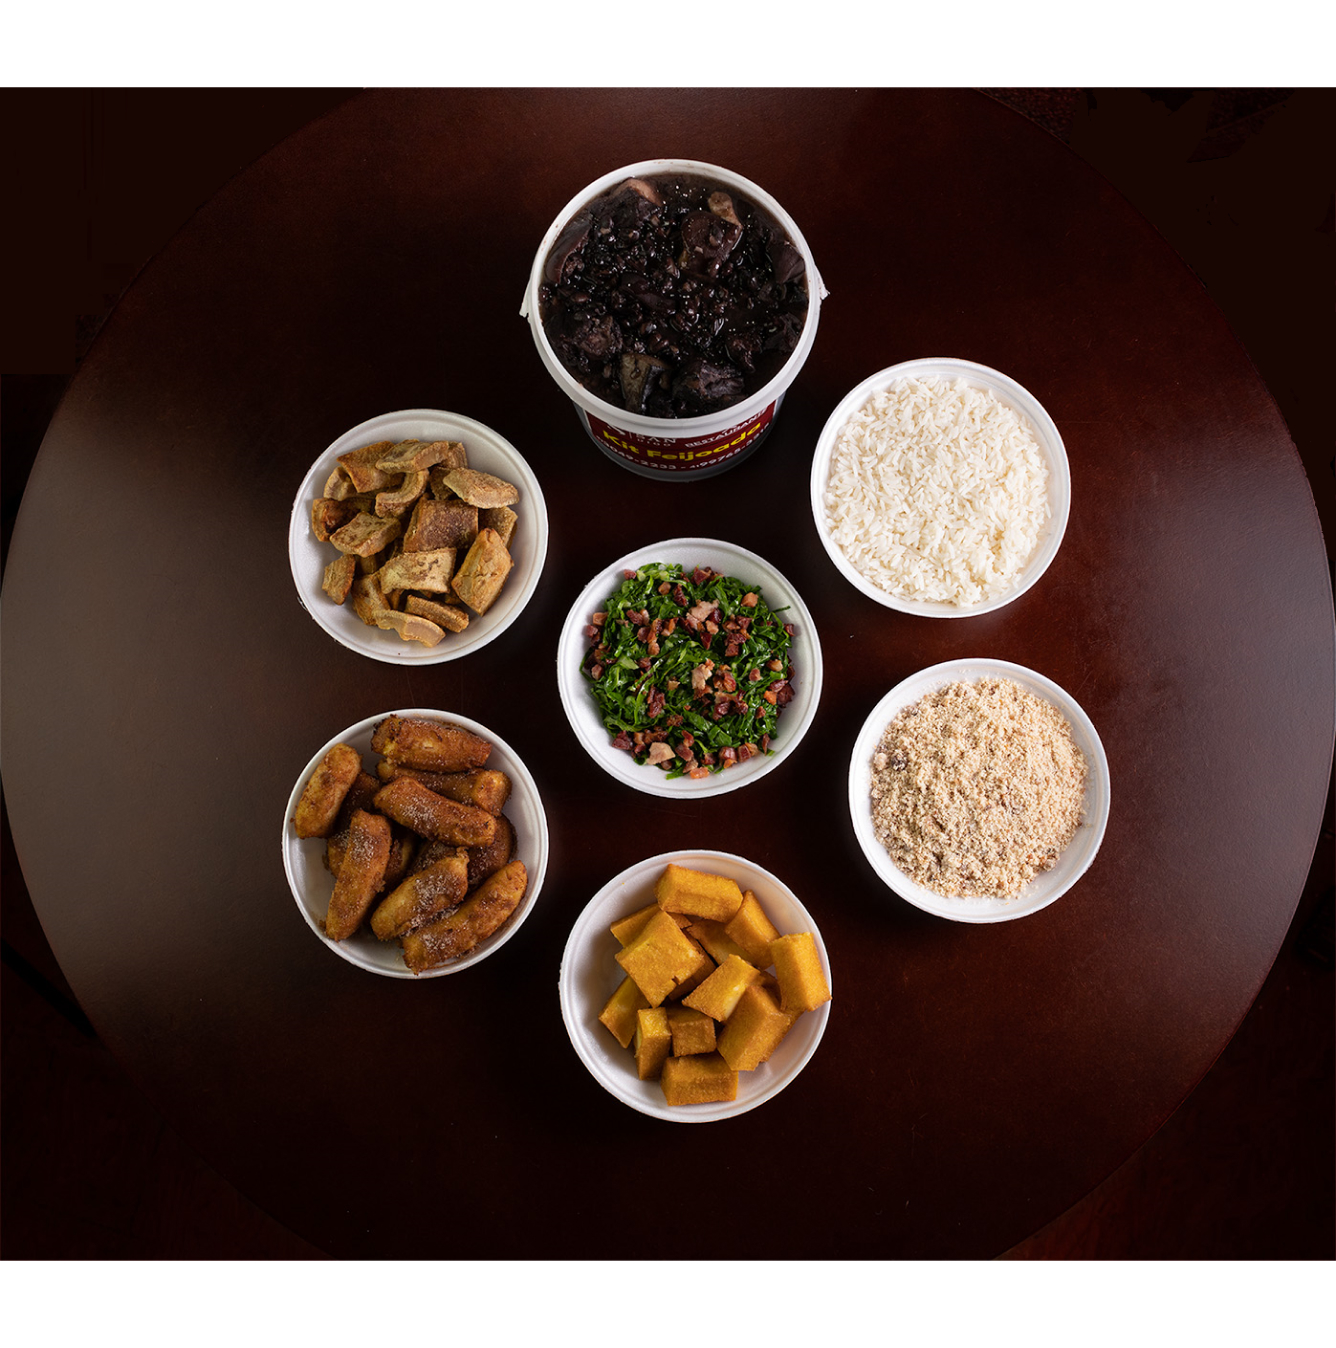
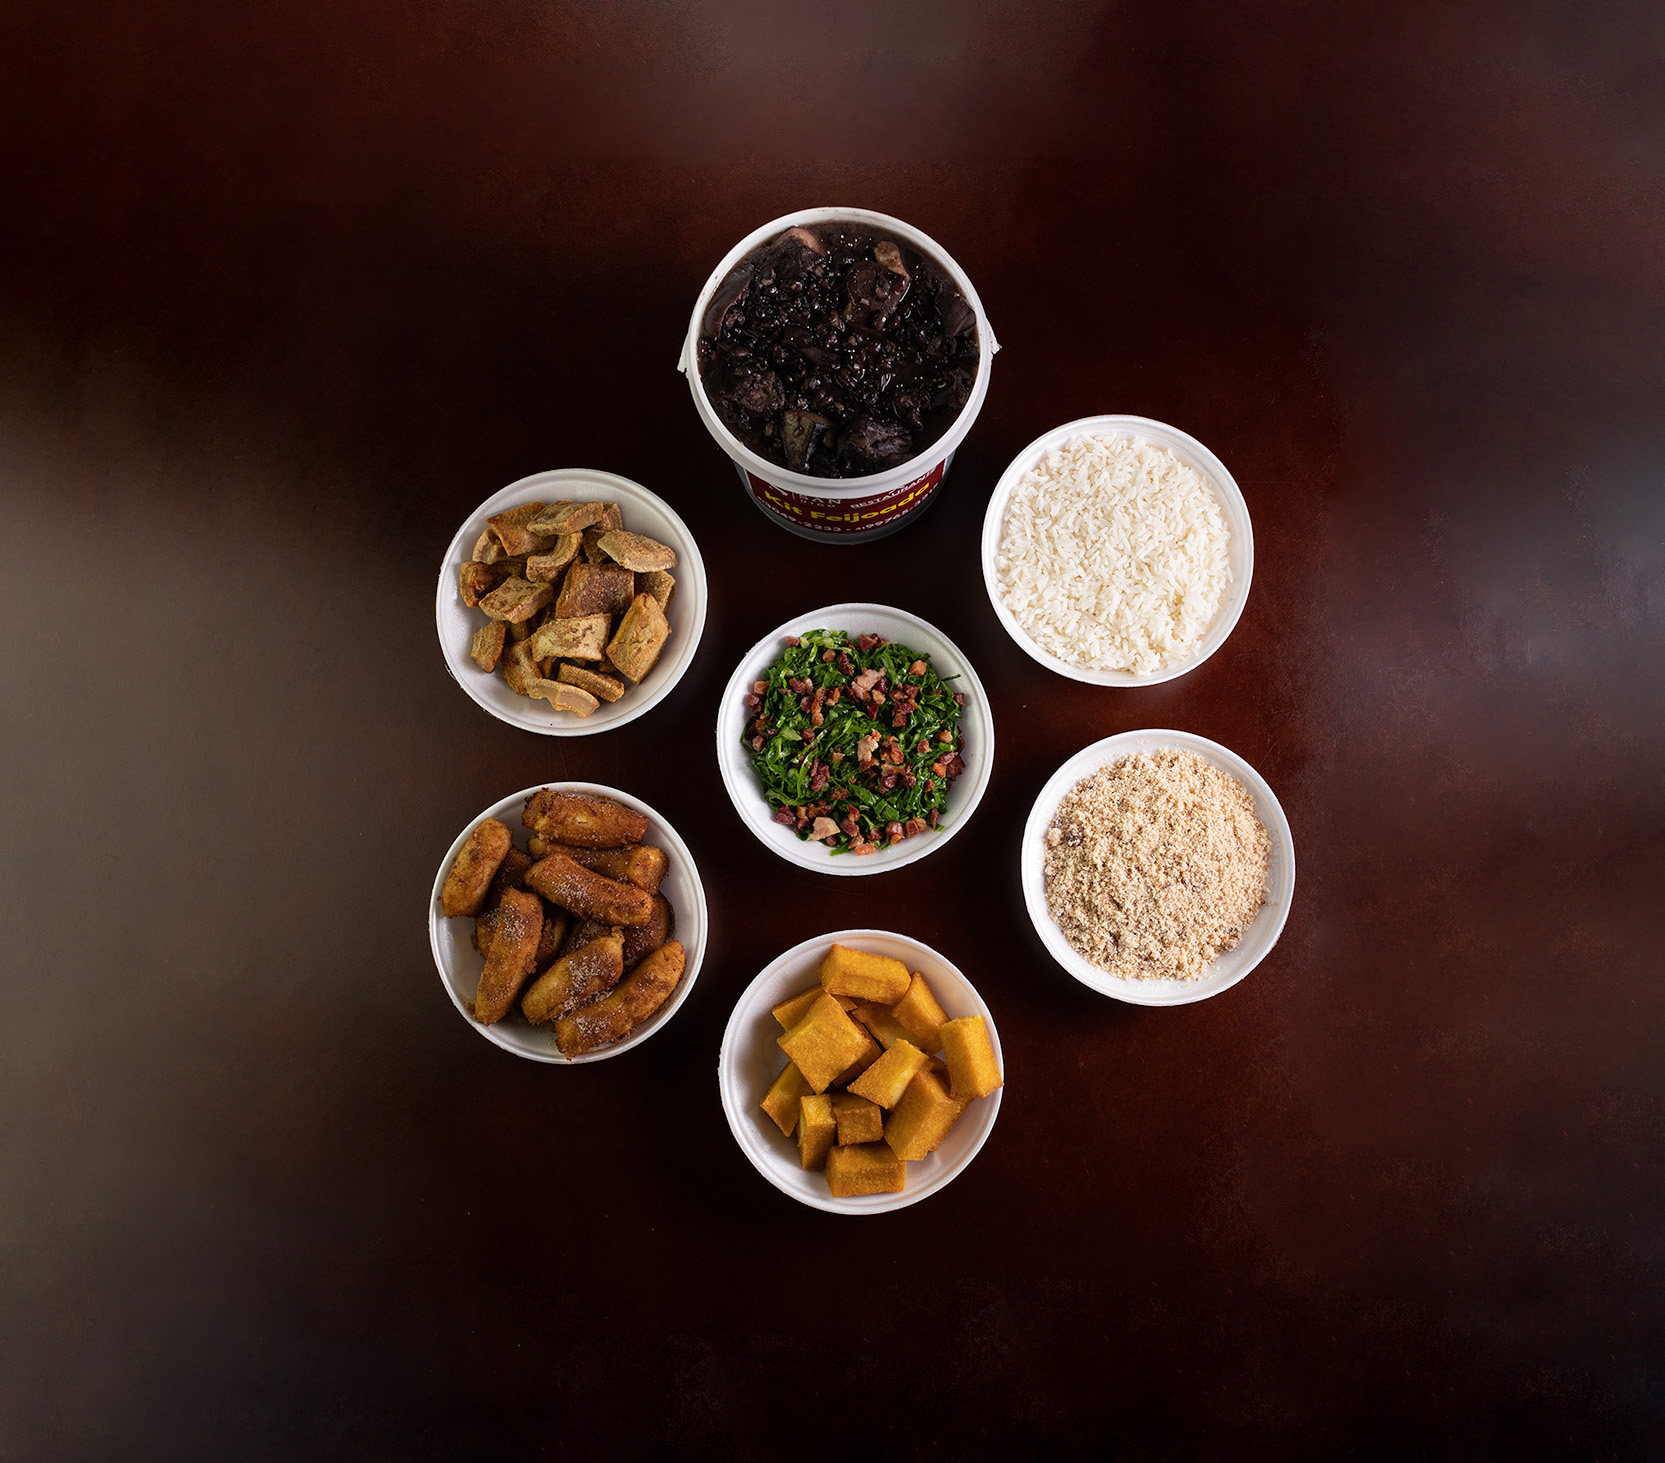
style(buffet-page): adds 2 new fixed imgs and fix responsive background-imgs

diff --git a/src/styles/root-style/reponsive-style/buffet/buffet-responsive.css b/src/styles/root-style/reponsive-style/buffet/buffet-responsive.css
@@ -146,8 +146,8 @@
     background-position: -200px -60px;
   }
   body .main-content-box .buffet .container .imgs-gallery .our-buffet .frame.two .image.kf, body .main-content-box .buffet .container .imgs-gallery .kit-feijoada .frame.two .image.kf {
-    background-size: 120%;
-    background-position: -30px -30px;
+    background-size: 140%;
+    background-position: -62px -35px;
   }
   body .main-content-box .buffet .container .imgs-gallery .our-buffet .frame.three .image.bf, body .main-content-box .buffet .container .imgs-gallery .kit-feijoada .frame.three .image.bf {
     background-size: 120%;
@@ -230,8 +230,8 @@
     background-position: -250px -75px;
   }
   body .main-content-box .buffet .container .imgs-gallery .our-buffet .frame.two .image.kf, body .main-content-box .buffet .container .imgs-gallery .kit-feijoada .frame.two .image.kf {
-    background-size: 140%;
-    background-position: -95px -85px;
+    background-size: 125%;
+    background-position: -60px 45%;
   }
   body .main-content-box .buffet .container .imgs-gallery .our-buffet .frame.three .image.bf, body .main-content-box .buffet .container .imgs-gallery .kit-feijoada .frame.three .image.bf {
     background-size: 110%;
@@ -299,8 +299,7 @@
     background-position: -180px -50px;
   }
   body .main-content-box .buffet .container .imgs-gallery .our-buffet .frame.two .image.kf, body .main-content-box .buffet .container .imgs-gallery .kit-feijoada .frame.two .image.kf {
-    background-size: 115%;
-    background-position: -30px -40px;
+    background-position: -45px -30px;
   }
   body .main-content-box .buffet .container .imgs-gallery .our-buffet .frame.three .image.bf, body .main-content-box .buffet .container .imgs-gallery .kit-feijoada .frame.three .image.bf {
     background-size: 110%;
@@ -365,8 +364,8 @@
     background-position: -160px -25px;
   }
   body .main-content-box .buffet .container .imgs-gallery .our-buffet .frame.two .image.kf, body .main-content-box .buffet .container .imgs-gallery .kit-feijoada .frame.two .image.kf {
-    background-size: 125%;
-    background-position: -40px -30px;
+    background-size: 140%;
+    background-position: -58px -25px;
   }
   body .main-content-box .buffet .container .imgs-gallery .our-buffet .frame.three .image.bf, body .main-content-box .buffet .container .imgs-gallery .kit-feijoada .frame.three .image.bf {
     background-position: center -30px;
@@ -422,8 +421,8 @@
     background-position: -170px -20px;
   }
   body .main-content-box .buffet .container .imgs-gallery .our-buffet .frame.two .image.kf, body .main-content-box .buffet .container .imgs-gallery .kit-feijoada .frame.two .image.kf {
-    background-size: 130%;
-    background-position: -42px -25px;
+    background-size: 150%;
+    background-position: -60px -30px;
   }
   body .main-content-box .buffet .container .imgs-gallery .our-buffet .frame.three .image.kf, body .main-content-box .buffet .container .imgs-gallery .kit-feijoada .frame.three .image.kf {
     background-position: -52px -15px;
@@ -473,8 +472,8 @@
     background-position: -150px -30px;
   }
   body .main-content-box .buffet .container .imgs-gallery .our-buffet .frame.two .image.kf, body .main-content-box .buffet .container .imgs-gallery .kit-feijoada .frame.two .image.kf {
-    background-size: 120%;
-    background-position: -25px -22px;
+    background-size: 135%;
+    background-position: -40px 45%;
   }
   body .main-content-box .buffet .container .imgs-gallery .our-buffet .frame.three .image.kf, body .main-content-box .buffet .container .imgs-gallery .kit-feijoada .frame.three .image.kf {
     background-position: -45px -25px;
@@ -532,7 +531,7 @@
   }
   body .main-content-box .buffet .container .imgs-gallery .our-buffet .frame.two .image.kf, body .main-content-box .buffet .container .imgs-gallery .kit-feijoada .frame.two .image.kf {
     background-size: 120%;
-    background-position: -10vw 40%;
+    background-position: 58% 45%;
   }
   body .main-content-box .buffet .container .imgs-gallery .our-buffet .frame.three .image.bf, body .main-content-box .buffet .container .imgs-gallery .kit-feijoada .frame.three .image.bf {
     background-size: 110%;

diff --git a/src/styles/root-style/reponsive-style/buffet/device-size/_mobile-g.scss b/src/styles/root-style/reponsive-style/buffet/device-size/_mobile-g.scss
@@ -41,8 +41,8 @@
                                 }
     
                                 .image.kf{
-                                    background-size: 125%;
-                                    background-position: -40px -30px;
+                                    background-size: 140%;
+                                    background-position: -58px -25px;
                                 }
                             }
             
@@ -142,8 +142,8 @@
                                 }
     
                                 .image.kf{
-                                    background-size: 130%;
-                                    background-position: -42px -25px;
+                                    background-size: 150%;
+                                    background-position: -60px -30px;
                                 }
                             }
 
@@ -238,8 +238,8 @@
                                 }
     
                                 .image.kf{
-                                    background-size: 120%;
-                                    background-position: -25px -22px;
+                                    background-size: 135%;
+                                    background-position: -40px 45%;
                                 }
                             }
 
@@ -337,7 +337,7 @@
     
                                 .image.kf{
                                     background-size: 120%;
-                                    background-position: -10vw 40%;
+                                    background-position: 58% 45%;
                                 }
                             }
 

diff --git a/src/styles/root-style/master-style/buffet/buffet-style.css b/src/styles/root-style/master-style/buffet/buffet-style.css
@@ -479,8 +479,8 @@ body .main-content-box .buffet .container .imgs-gallery .our-buffet .frame.two .
 }
 body .main-content-box .buffet .container .imgs-gallery .our-buffet .frame.two .image.kf, body .main-content-box .buffet .container .imgs-gallery .kit-feijoada .frame.two .image.kf {
   background-image: url("../../../../images/section-images/buffet/kitf-2.jpg");
-  background-size: 130%;
-  background-position: -55px -40px;
+  background-size: 150%;
+  background-position: -85px -45px;
 }
 body .main-content-box .buffet .container .imgs-gallery .our-buffet .frame.three, body .main-content-box .buffet .container .imgs-gallery .kit-feijoada .frame.three {
   grid-area: img-3;
@@ -491,8 +491,8 @@ body .main-content-box .buffet .container .imgs-gallery .our-buffet .frame.three
 }
 body .main-content-box .buffet .container .imgs-gallery .our-buffet .frame.three .image.kf, body .main-content-box .buffet .container .imgs-gallery .kit-feijoada .frame.three .image.kf {
   background-image: url("../../../../images/section-images/buffet/kitf-3.jpg");
-  background-size: 150%;
-  background-position: -72px center;
+  background-size: 145%;
+  background-position: -65px center;
 }
 body .main-content-box .buffet .container .imgs-gallery .our-buffet {
   grid-template-columns: minmax(auto, 267px) minmax(auto, 329px) minmax(auto, 442px);

diff --git a/src/styles/partial-style/buffet-page/_images-gallery.scss b/src/styles/partial-style/buffet-page/_images-gallery.scss
@@ -128,8 +128,8 @@ body{
 
                             .image.kf{
                                 background-image: url('../../../../images/section-images/buffet/kitf-2.jpg');
-                                background-size: 130%;
-                                background-position: -55px -40px;
+                                background-size: 150%;
+                                background-position: -85px -45px;
                             }
                         }
         
@@ -143,8 +143,8 @@ body{
 
                             .image.kf{
                                 background-image: url('../../../../images/section-images/buffet/kitf-3.jpg');
-                                background-size: 150%;
-                                background-position: -72px center;
+                                background-size: 145%;
+                                background-position: -65px center;
                             }
                         }
                     }

diff --git a/src/styles/root-style/reponsive-style/buffet/device-size/_desktop-p.scss b/src/styles/root-style/reponsive-style/buffet/device-size/_desktop-p.scss
@@ -34,8 +34,8 @@
                                 }
     
                                 .image.kf{
-                                    background-size: 120%;
-                                    background-position: -30px -30px;
+                                    background-size: 140%;
+                                    background-position: -62px -35px;
                                 }
                             }
             
@@ -178,8 +178,8 @@
                                 }
     
                                 .image.kf{
-                                    background-size: 140%;
-                                    background-position: -95px -85px;
+                                    background-size: 125%;
+                                    background-position: -60px 45%;
                                 }
                             }
             

diff --git a/src/styles/root-style/reponsive-style/buffet/device-size/_tablet.scss b/src/styles/root-style/reponsive-style/buffet/device-size/_tablet.scss
@@ -40,9 +40,8 @@
                                     background-position: -180px -50px;
                                 }
     
-                                .image.kf{
-                                    background-size: 115%;
-                                    background-position: -30px -40px;
+                                .image.kf{   
+                                    background-position: -45px -30px;
                                 }
                             }
             
